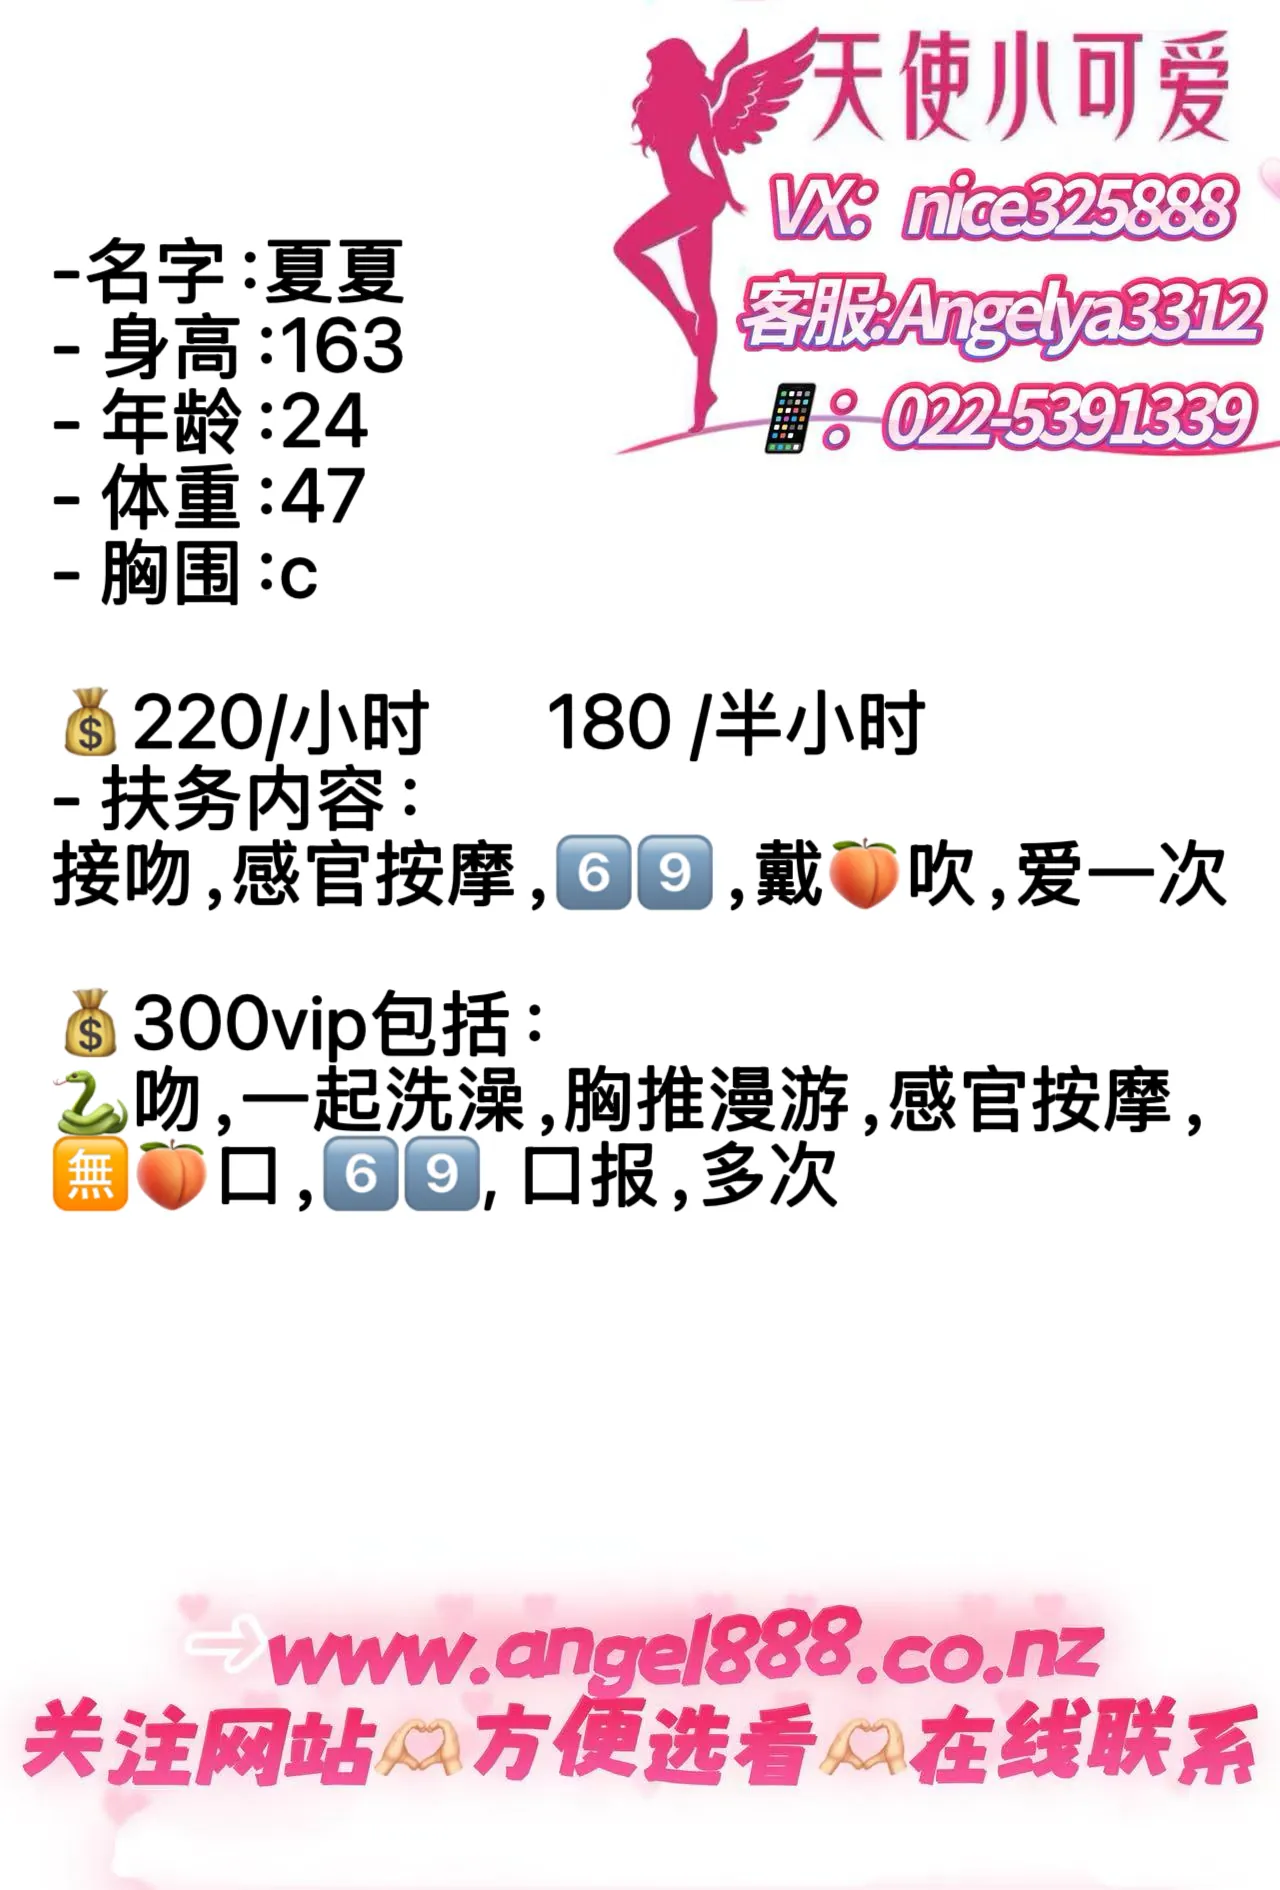
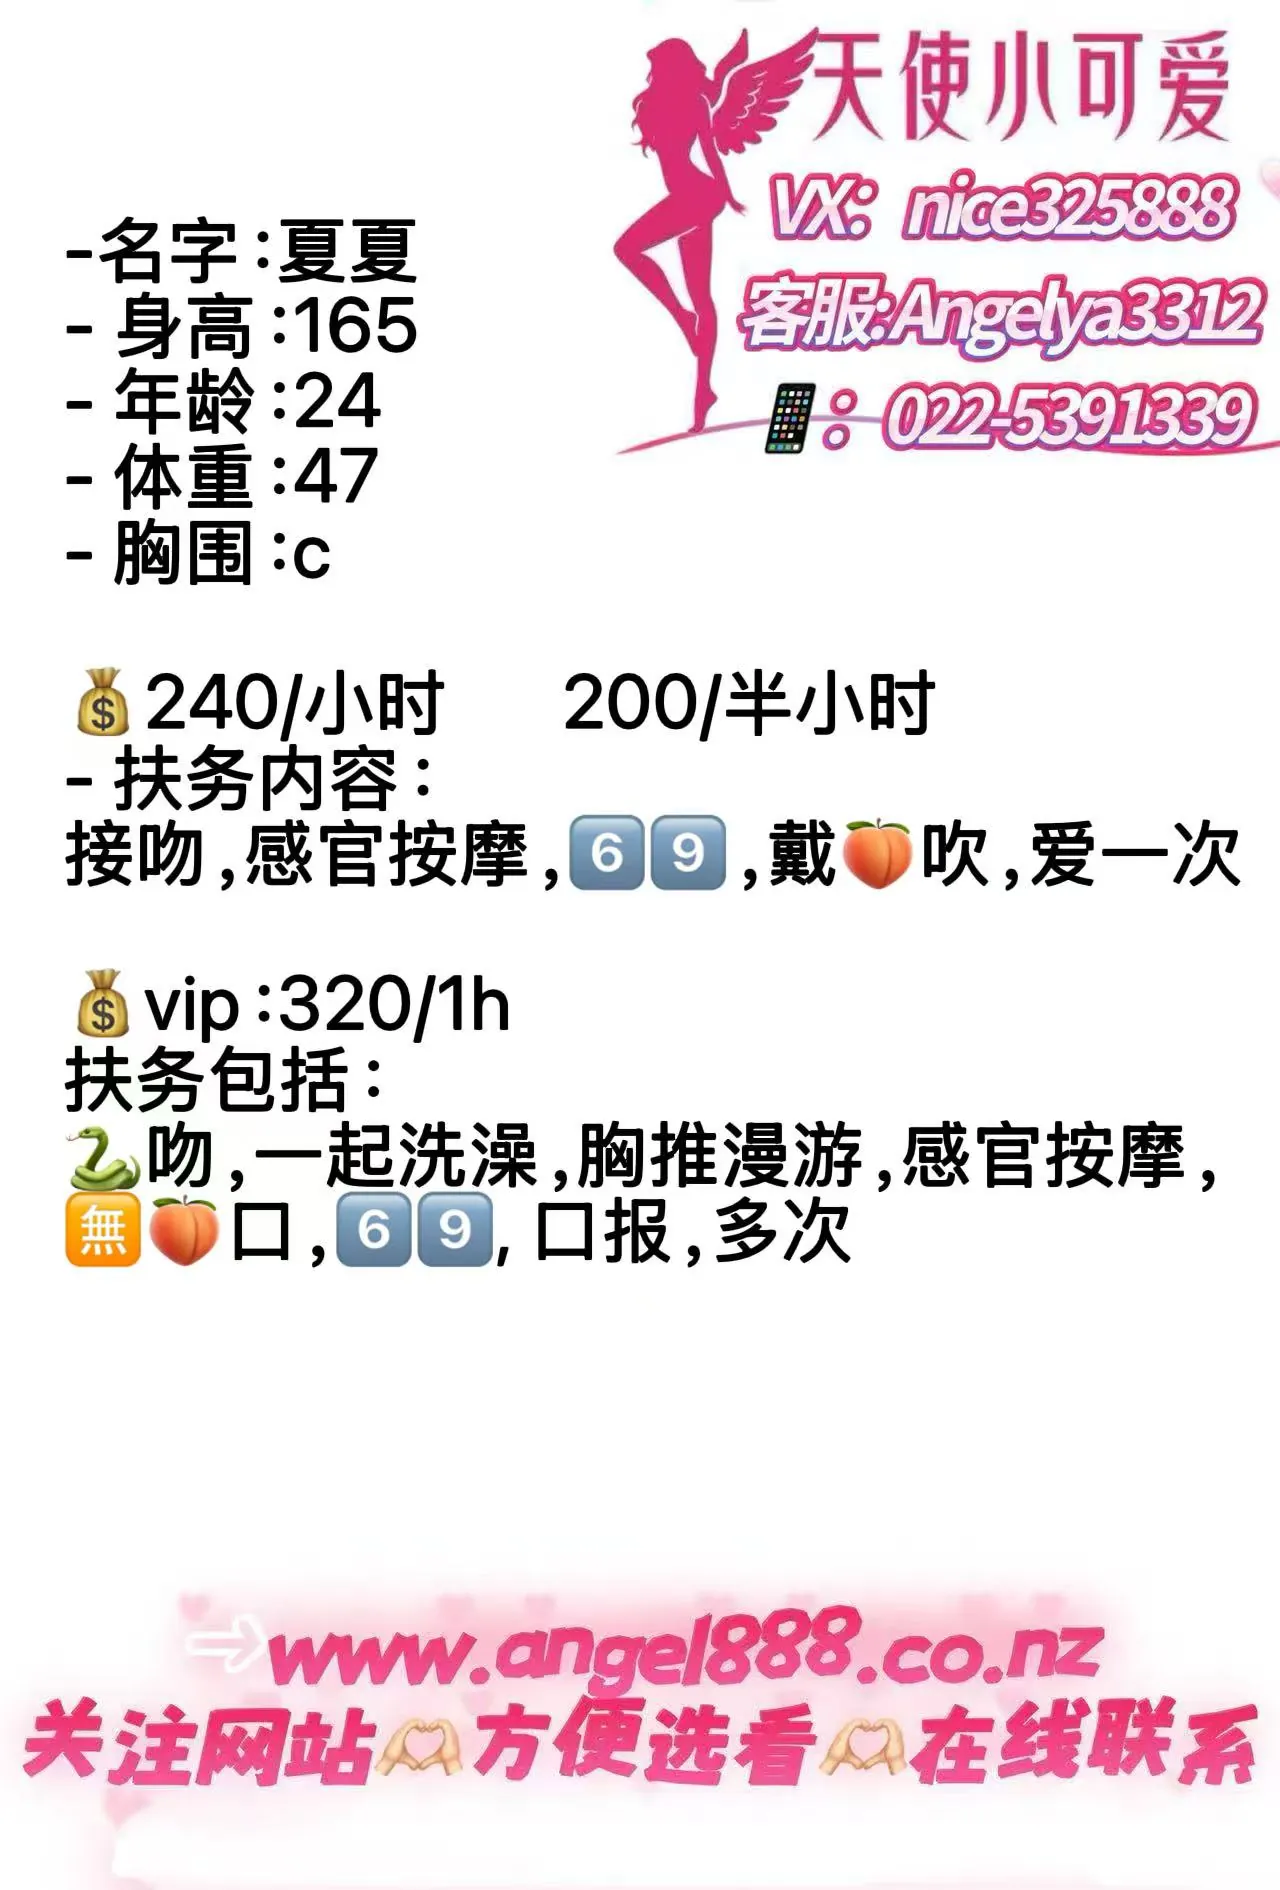
feat: Update Xiaxia (夏夏, ID 52) profile in East with new prices, age, services and WebP optimized assets

Changed region(s): [[0.0312, 0.0937, 0.9688, 0.6868]]

diff --git a/src/lib/data.js b/src/lib/data.js
@@ -421,7 +421,7 @@ export const girls = [
     name: { en: "Xiaxia", cn: "夏夏" },
     status: "available",
     verified: true,
-    location: "Central",
+    location: "East",
     stats: {
       age: 24,
       height: "163cm",
@@ -431,10 +431,10 @@ export const girls = [
     },
     image: "/images/girls/xiaxia/1.webp",
     description: {
-      en: "Brimming with youthful energy and sweet charm, 24-year-old Xiaxia is now available in Central to offer her gentle and warm companionship. Standing at 163cm with a beautifully proportioned natural C-cup figure, she is playful, cheerful, and highly attentive to your desires. Extremely skilled in relaxing oil massage, shower BJ, and high-passion sensory interactions, she delivers full focus and care to melt away your stress and ensure a highly refreshing, deeply satisfying escape.",
-      cn: "青春洋溢、甜美迷人的00后女孩夏夏，现已来到中区为您提供温柔贴心的陪伴。她年仅 24 岁，拥有 163cm 的高挑匀称身材和自然丰润 of C 罩杯曲线。夏夏性格开朗活泼，服务细致周到，擅长全身精油按摩、水中箫以及深度的感官互动。她将以最真挚的笑容和体贴入微的关怀，为您拂去全身疲惫，开启一场舒畅愉悦的浪漫之旅。",
+      en: "Brimming with youthful energy and sweet charm, the beautiful 24-year-old Xiaxia is now available in East Auckland to offer you a highly tailored, intimate encounter. Standing at 163cm with a perfectly balanced natural C-cup figure and fair, smooth skin. Specializing in both gentle sensory massage and high-passion intimate SVIP/Full Service packages, she focuses on every detail to satisfy your every desire and ensure a deeply relaxing, blissful escape.",
+      cn: "青春洋溢、甜美迷人的24岁女孩夏夏，现已在奥克兰东区为您开启专属的私密邂逅。她拥有163cm、47kg的匀称娇躯，天然丰满的C罩杯极具诱惑，配合度无与伦比。专业定制SVIP与全套互动体验，包含双人淋浴、缠绵舌吻、性感黑丝、胸推漫游、深度无套口及口爆等项目。在东区舒适安逸的环境中，为您呈现极尽缠绵与彻底放松的感官享受。",
     },
-    price: "$300 / 1h (VIP) · $220 / 1h · $180 / 30min",
+    price: "$320 / 1h (VIP) · $240 / 1h · $200 / 30min",
     services: {
       en: [
         "French kiss",
@@ -444,7 +444,7 @@ export const girls = [
         "Body slide",
         "Natural BJ",
         "Multi shots",
-        "VIP: Natural BJ · French kiss · 69 · Cum in mouth · Multi shots · Shower together",
+        "VIP: Natural BJ · French kiss · 69 · Cum in mouth · Multi shots · Shower together · Body slide",
       ],
       cn: [
         "舌吻",
@@ -454,7 +454,7 @@ export const girls = [
         "胸推漫游",
         "无套口",
         "多次数",
-        "VIP套餐：无套口 · 舌吻 · 69 · 口爆 · 多次数 · 双人洗浴",
+        "VIP套餐：无套口 · 舌吻 · 69 · 口爆 · 多次数 · 双人洗浴 · 胸推漫游",
       ],
     },
     gallery: [
